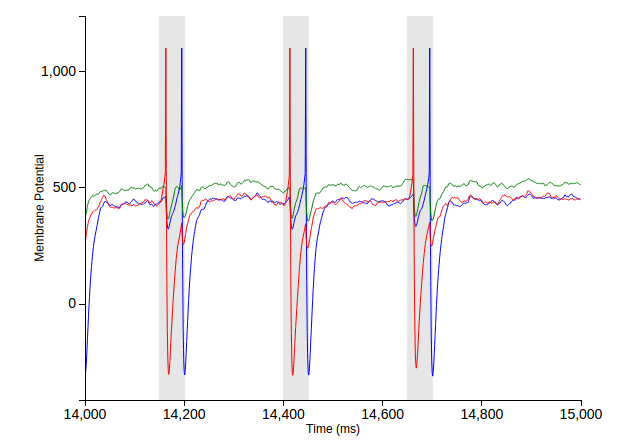
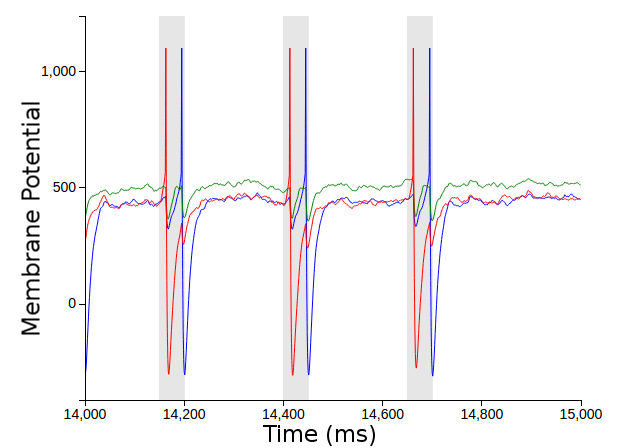
Updated X-Y labesl in figures

Changed region(s): [[0.0304, 0.2188, 0.0913, 0.75], [0.4263, 0.9375, 0.609, 1.0]]

diff --git a/reports/report3/0.FinalReport/final_report.tex b/reports/report3/0.FinalReport/final_report.tex
@@ -104,33 +104,33 @@ In this section, there is a brief discussion of the challenges that were faced d
 	Furthermore, our difficulties led us to believe that it would be useful for us and for future researchers into dragonfly vision to create a user-friendly interface for interacting with our dragonfly system. To this end, we decided to add the creation of a web client to our requirements. The aim is for the web client to provide an interface that allows the user to run and save simulations of either each module individually or of the whole system and to provide key metrics that demonstrate the functionality of each part.
 	
 \subsection{Final Specifications}
-The following table summarises the finalised requirements and the priority level for each part.
+The following table summarises the finalised requirements and the level of completion for each part.
 \begin{center}
     \begin{tabular}{p{12cm} c c}
-    \textbf{Minimum Requirements (Stage 1)} & \textbf{Priority} \\ \hline
-    (Ai) Create an animation tool to generate inputs for visual processing. & High \\ 
-	(Aii) Build a model for the ESTMD neuron present between the retina and the actual CSTMD1 neurons of a real dragonfly. & High \\
-	(Aiii) Design connection between ESTMD and CSTMD1 neurons. & High \\
-	(B) Build a layer of pattern recognition neurons that can learn to recognise spike patterns within a noisy background. & High\\
-	(C) Integrate the visual processing and pattern recognition system to detect patterns within the CSTMD1 output and add a simple action selection mechanism. & High\\
+    \textbf{Minimum Requirements (Stage 1)} & \textbf{Completion} \\ \hline
+    (Ai) Create an animation tool to generate inputs for visual processing. & Full \\ 
+	(Aii) Build a model for the ESTMD neuron present between the retina and the actual CSTMD1 neurons of a real dragonfly. & Full \\
+	(Aiii) Design connection between ESTMD and CSTMD1 neurons. & Full \\
+	(B) Build a layer of pattern recognition neurons that can learn to recognise spike patterns within a noisy background. & Full\\
+	(C) Integrate the visual processing and pattern recognition system to detect patterns within the CSTMD1 output and add a simple action selection mechanism. & Full\\
     \end{tabular}
 \end{center}
 
 \begin{center}
     \begin{tabular}{p{12cm} c c}
-    \textbf{Expected Implementation (Stage 2)} & \textbf{Priority} \\ \hline
-	(A) Develop a web client to analyse metrics of each component in our model. & Medium \\
-	(B) Create an animation for the dragonfly agent. & Medium\\
-	(C) Enhance the action selection mechanism to control the agent within the environment. & Medium\\
+    \textbf{Expected Implementation (Stage 2)} & \textbf{Completion} \\ \hline
+	(A) Develop a web client to analyse metrics of each component in our model. & Full \\
+	(B) Create an animation for the dragonfly agent. & Full\\
+	(C) Enhance the action selection mechanism to control the agent within the environment. & Full\\
     \end{tabular}
 \end{center}
 
 \begin{center}
     \begin{tabular}{p{12cm} c c}
-    \textbf{Possible Extensions (Stage 3)} & \textbf{Priority} \\ \hline
-	(A) Improve the usability and features of the web client. & Low\\
-	(B) Achieve CSTMD1 target selection through experimentation with various parameters and connections with the ESTMD neurons. & Low\\
-	(C) Implement the agent in a quadcopter drone. & Low\\
+    \textbf{Possible Extensions (Stage 3)} & \textbf{Completion} \\ \hline
+	(A) Improve the usability and features of the web client. & Full\\
+	(B) Achieve CSTMD1 target selection through experimentation with various parameters and connections with the ESTMD neurons. & Partial\\
+	(C) Implement the agent in a quadcopter drone. & None\\
     \end{tabular}
 \end{center}
 
@@ -614,36 +614,6 @@ With the reports and testing a general strategy was decided early on. Each membe
 
 As our final product, we have succeeded in creating a flexible, cohesive and portable tool for modelling dragonfly vision and target selection. Overall, we succeeded in completing all of the minimum and expected requirements of our specification, but not without a lot of hard work from the group and many challenges along the way. In the figure below we show some screenshots of our web client.
 
-\begin{figure}[H]
-\begin{minipage}{0.5\textwidth}
-\centering
-\fbox{\includegraphics[scale = 0.15]{backgrounds}}
-\end{minipage}
-\begin{minipage}{0.5\textwidth}
-\centering
-\fbox{\includegraphics[scale = 0.15]{cstmd_intro}}
-\end{minipage}
-\begin{minipage}{0.5\textwidth}
-\centering
-\fbox{\includegraphics[scale = 0.15]{estmd_sim}}
-\end{minipage}
-\begin{minipage}{0.5\textwidth}
-\centering
-\fbox{\includegraphics[scale = 0.15]{ta_form}}
-\end{minipage}
-\begin{minipage}{0.5\textwidth}
-\centering
-\fbox{\includegraphics[scale = 0.15]{as_results}}
-\end{minipage}
-\begin{minipage}{0.5\textwidth}
-\centering
-\fbox{\includegraphics[scale = 0.3]{as_example}}
-\end{minipage}
-\caption{From left to right and top to bottom: (a) Selection of backgrounds for Target Animation (b) CSTMD1 introduction page (c) ESTMD simulation output page (d) Target Animation creation page (e) Key metrics and results for Action Selection module (f) Snapshot of Action Selection video output.}
-\end{figure}
-
-
-
 [HOMEPAGE]
 [FORMS]
 [RESULTS]
@@ -663,39 +633,41 @@ development that could prove fruitful in the future.
 
 \subsection{Goals Met}
 
-As can be seen below, we managed to complete the minimum and expected requirements of the specification of the product. 
+As can be seen in the Specification section of this report we managed to fully complete most of the 
+targets that we set. In fact, we managed to complete all the targets set not only as minimum 
+requirements (Stage 1) but also for the expected implementation (Stage 2). More specifically, we 
+managed to:
 
-\begin{center}
-    \begin{tabular}{p{12cm} c c}
-    \textbf{Minimum Requirements (Stage 1)} & \textbf{Completion} \\ \hline
-    (Ai) Create an animation tool to generate inputs for visual processing. & Full \\ 
-	(Aii) Build a model for the ESTMD neuron present between the retina and the actual CSTMD1 neurons of a real dragonfly. & Full \\
-	(Aiii) Design connection between ESTMD and CSTMD1 neurons. & Full \\
-	(B) Build a layer of pattern recognition neurons that can learn to recognise spike patterns within a noisy background. & Full\\
-	(C) Integrate the visual processing and pattern recognition system to detect patterns within the CSTMD1 output and add a simple action selection mechanism. & Full\\
-    \end{tabular}
-\end{center}
+\begin{enumerate}
 
-\begin{center}
-    \begin{tabular}{p{12cm} c c}
-    \textbf{Expected Implementation (Stage 2)} & \textbf{Completion} \\ \hline
-	(A) Develop a web client to analyse metrics of each component in our model. & Full \\
-	(B) Create an animation for the dragonfly agent. & Full\\
-	(C) Enhance the action selection mechanism to control the agent within the environment. & Full\\
-    \end{tabular}
-\end{center}
+ \item{Create an animation tool that allows the generation of input for visual processing. (Minimum 
+Requirement)}
 
-\begin{center}
-    \begin{tabular}{p{12cm} c c}
-    \textbf{Possible Extensions (Stage 3)} & \textbf{Completion} \\ \hline
-	(A) Improve the usability and features of the web client. & Partial\\
-	(B) Achieve CSTMD1 target selection through experimentation with various parameters and connections with the ESTMD neurons. & Partial\\
-	(C) Implement the agent in a quadcopter drone. & None\\
-    \end{tabular}
-\end{center}
+\item{Build a model for the ESTMD neuron present between the retina and the actual CSTMD1 
+neurons of a real dragonfly. The function of this neuron is, given visual input, to isolate small targets 
+from a potentially noisy background. (Minimum Requirement)}  
 
-\subsection{Action Selection}
-\begin{figure}[H]
+\item{Build a layer of pattern recognition neurons that can be trained in an unsupervised manner to 
+identify spike patterns within a noisy background. (Minimum Requirement)}
+
+\item{Integrate the visual processing and pattern recognition system to detect patterns within the
+CSTMD1 output and add a simple action selection mechanism. (Minimum Requirement)}
+
+\item{Develop a web client to provide an interface and key metrics for each module and for the 
+system as a whole.  (Expected Implementation)}
+
+\item{Create an animation for the dragonfly agent to visualise the results of a simulation. (Expected 
+Implementation)}
+
+\item{Enhance the action selection mechanism to control the agent within the environment 
+(Expected Implementation)}
+
+\item{Improve the usability and features of the web client (Possible Exentions)}
+
+\end{enumerate}
+
+\subsection{Target Animation}
+\begin{figure}[h]
 \centering
 \begin{minipage}{0.2\textwidth}
 \fbox{\includegraphics[scale = 0.14]{scr0}}
@@ -712,26 +684,35 @@ As can be seen below, we managed to complete the minimum and expected requiremen
 \caption{Simple example of action selection output. The red dot represents the dragonfly focal point and the black dot represents the target.}
 \label{target_animation_example}
 \end{figure}
-
 \subsection{Partially completed tasks}
 
 The task that proved to be the most challenging aspect of the project was the development of the 
-CSTMD1 neuron model. It is observed that the CSTMD1 neuron when provided with multiple stimuli, it spikes 
+CSTMD1 neuron. It is observed that the CSTMD1 neuron when provided with multiple stimuli, it spikes 
 depending only on one of them thus providing a selection mechanism \cite{?}. In the beginning of 
 the project we were provided with third party code that replicated that process but was tested only 
 for a specific type of input. With the visual input that was key to our project however the CSTMD1 
 neuron did not show the expected behaviour and it failed to provide a robust selection mechanism. 
 Despite our constant efforts to make it work, the time constraints of this project along with the high 
-complexity of the other modules made it infeasible to fully meet this target. 
+complexity of the other modules made it infeasible to fully meet this target. Therefore the target:\\
 
-The web client:
+\noindent
+
+Achieve CSTMD1 target selection through experimentation with various parameters and connections 
+with the ESTMD neuron (Possible Extensions)
+was only partially completed.
 
 \subsection{Non-implemented tasks}
 
 Of all the goals that were set there was only one we did not get the chance to work on:
 
 \noindent
-Of the possible extensions in our specification, the one we did not have time to attempt was to implement our target selection system into a quadcopter drone (Possible Extensions). The idea behind this goal was to integrate the completed agent into a quadcopter with embedded cameras that would allow it to react in real time to visual stimuli. Our current system computes the entire output of each module before being passed on to the next one - for a real time system, the processing in each module would have to be completed at each time step. Additionally, the required processing of the visual input within each simulation is very computationally expensive that it would have required a very powerful offline processor (i.e. not mounted onto the quadcopter) in order to implement it in real-time. 
+Implement the agent in a quadcopter drone (Possible Extensions).
+The idea behind this goal was to integrate the completed agent to an actual quadcopter with 
+embedded cameras that would allow it to react in real time to stimuli. That however would require
+very fast completion of the whole system or extended period of time to work on this project. What is 
+more, the required processing of the visual input within each simulation is so computationally 
+expensive that made it impossible to implement a real time system with the existing hardware. 
+Therefore this goal could not be met.
 
 \subsection{Future Development}
 Our project's modular architecture and design allows for future development on each of the components to be feasible both by the members of our team as well as the community. We will release our source code via a public repository and welcome contributions as we continue to improve our tool. Given our use of Git as a source version control system, users will be able to easily clone and fork the repository for their own deployments, as well as submit pull requests to contribute to the development of the original tool. We have also made a public-facing website available at (WEBSITE) so that potential users or contributors can easily test the web client.
